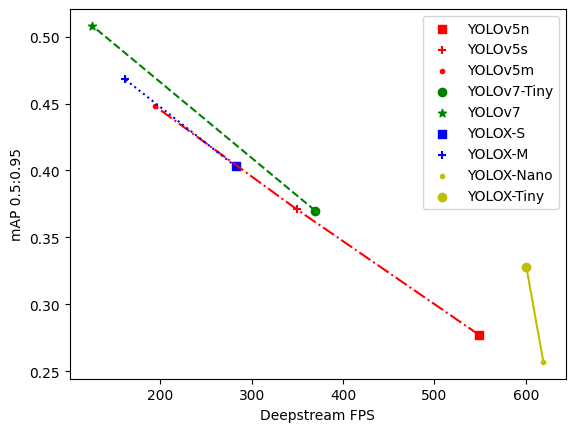
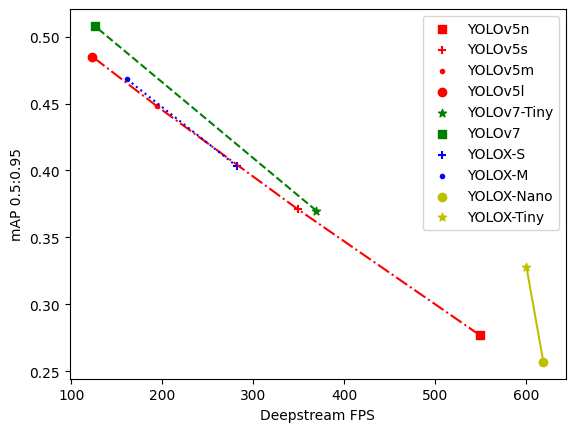
Add yolov5l

diff --git a/map/README.md b/map/README.md
@@ -7,6 +7,7 @@
 - YOLOV5n: `python3 export.py --data ./data/coco.yaml --weights ./weights/yolov5n.pt --imgsz 640 --batch-size 1 --device 0 --simplify --opset 14 --include onnx --cleanup --dynamic-batch`
 - YOLOV5s: `python3 export.py --data ./data/coco.yaml --weights ./weights/yolov5s.pt --imgsz 640 --batch-size 1 --device 0 --simplify --opset 14 --include onnx --cleanup --dynamic-batch`
 - YOLOV5m: `python3 export.py --data ./data/coco.yaml --weights ./weights/yolov5m.pt --imgsz 640 --batch-size 1 --device 0 --simplify --opset 14 --include onnx --cleanup --dynamic-batch`
+- YOLOV5l: `python3 export.py --data ./data/coco.yaml --weights ./weights/yolov5l.pt --imgsz 640 --batch-size 1 --device 0 --simplify --opset 14 --include onnx --cleanup --dynamic-batch`
 
 ### YOLOv7
 
@@ -27,6 +28,7 @@
 - YOLOv5n: `python3 val.py --data ./data/coco.yaml --weights ./weights/yolov5n.onnx --batch-size 32 --imgsz 640 --max-det 300 --task val --device 0`
 - YOLOv5s: `python3 val.py --data ./data/coco.yaml --weights ./weights/yolov5s.onnx --batch-size 32 --imgsz 640 --max-det 300 --task val --device 0`
 - YOLOv5m: `python3 val.py --data ./data/coco.yaml --weights ./weights/yolov5m.onnx --batch-size 32 --imgsz 640 --max-det 300 --task val --device 0`
+- YOLOv5l: `python3 val.py --data ./data/coco.yaml --weights ./weights/yolov5l.onnx --batch-size 32 --imgsz 640 --max-det 300 --task val --device 0`
 
 ### YOLOv7
 

diff --git a/fps/README.md b/fps/README.md
@@ -10,6 +10,8 @@
 
 - YOLOV5m: `python3 export.py --data ./data/coco.yaml --weights ./weights/yolov5m.pt --imgsz 640 --batch-size 1 --device 0 --simplify --opset 14 --topk-all 100 --iou-thres 0.65 --conf-thres 0.25 --include onnx --cleanup --end2end --trt --type-nms 0 --dynamic-batch --cleanup`
 
+- YOLOV5l: `python3 export.py --data ./data/coco.yaml --weights ./weights/yolov5l.pt --imgsz 640 --batch-size 1 --device 0 --simplify --opset 14 --topk-all 100 --iou-thres 0.65 --conf-thres 0.25 --include onnx --cleanup --end2end --trt --type-nms 0 --dynamic-batch --cleanup`
+
 ### YOLOv7
 
 - YOLOV7-Tiny (EfficientNMS): `python3 export.py --weights ./weights/yolov7-tiny.pt --grid --end2end --simplify --cleanup --topk-all 100 --iou-thres 0.65 --conf-thres 0.35 --img-size 640 640 --dynamic-batch --type-nms 0`
@@ -27,5 +29,3 @@
 - YOLOX-S: `python3 tools/export_onnx.py --output-name ./weights/yolox_s.onnx -n yolox-s -c ./weights/yolox_s.pth --topk-all 100 --iou-thres 0.65 --conf-thres 0.35 --type-nms 0 --simplify --cleanup --dynamic-batch --end2end --trt --type-nms 0`
 
 - YOLOX-M: `python3 tools/export_onnx.py --output-name ./weights/yolox_m.onnx -n yolox-m -c ./weights/yolox_m.pth --topk-all 100 --iou-thres 0.65 --conf-thres 0.35 --type-nms 0 --simplify --cleanup --dynamic-batch --end2end --trt --type-nms 0`
-
-## Demo

diff --git a/README.md b/README.md
@@ -11,6 +11,7 @@
 | YOLOv5n     | EfficientNMS | 640        | deepstream-app | 549.38 | 0.277                   | 0.45               | `deepstream-app -c ./yolov5n-efficient-nms.txt`     |
 | YOLOv5s     | EfficientNMS | 640        | deepstream-app | 349.38 | 0.371                   | 0.561              | `deepstream-app -c ./yolov5s-efficient-nms.txt`     |
 | YOLOv5m     | EfficientNMS | 640        | deepstream-app | 194.37 | 0.448                   | 0.633              | `deepstream-app -c ./yolov5m-efficient-nms.txt`     |
+| YOLOv5l     | EfficientNMS | 640        | deepstream-app | 123.38 | 0.485                   | 0.666              | `deepstream-app -c ./yolov5l-efficient-nms.txt`     |
 | YOLOv7-Tiny | BatchedNMS   | 640        | deepstream-app | 275.92 | 0.37                    | 0.546              | `deepstream-app -c ./yolov7-tiny-batched-nms.txt`   |
 | YOLOv7-Tiny | EfficientNMS | 640        | deepstream-app | 369.57 | 0.37                    | 0.546              | `deepstream-app -c ./yolov7-tiny-efficient-nms.txt` |
 | YOLOv7      | EfficientNMS | 640        | deepstream-app | 125.77 | 0.508                   | 0.69               | `deepstream-app -c ./yolov7-efficient-nms.txt`      |
